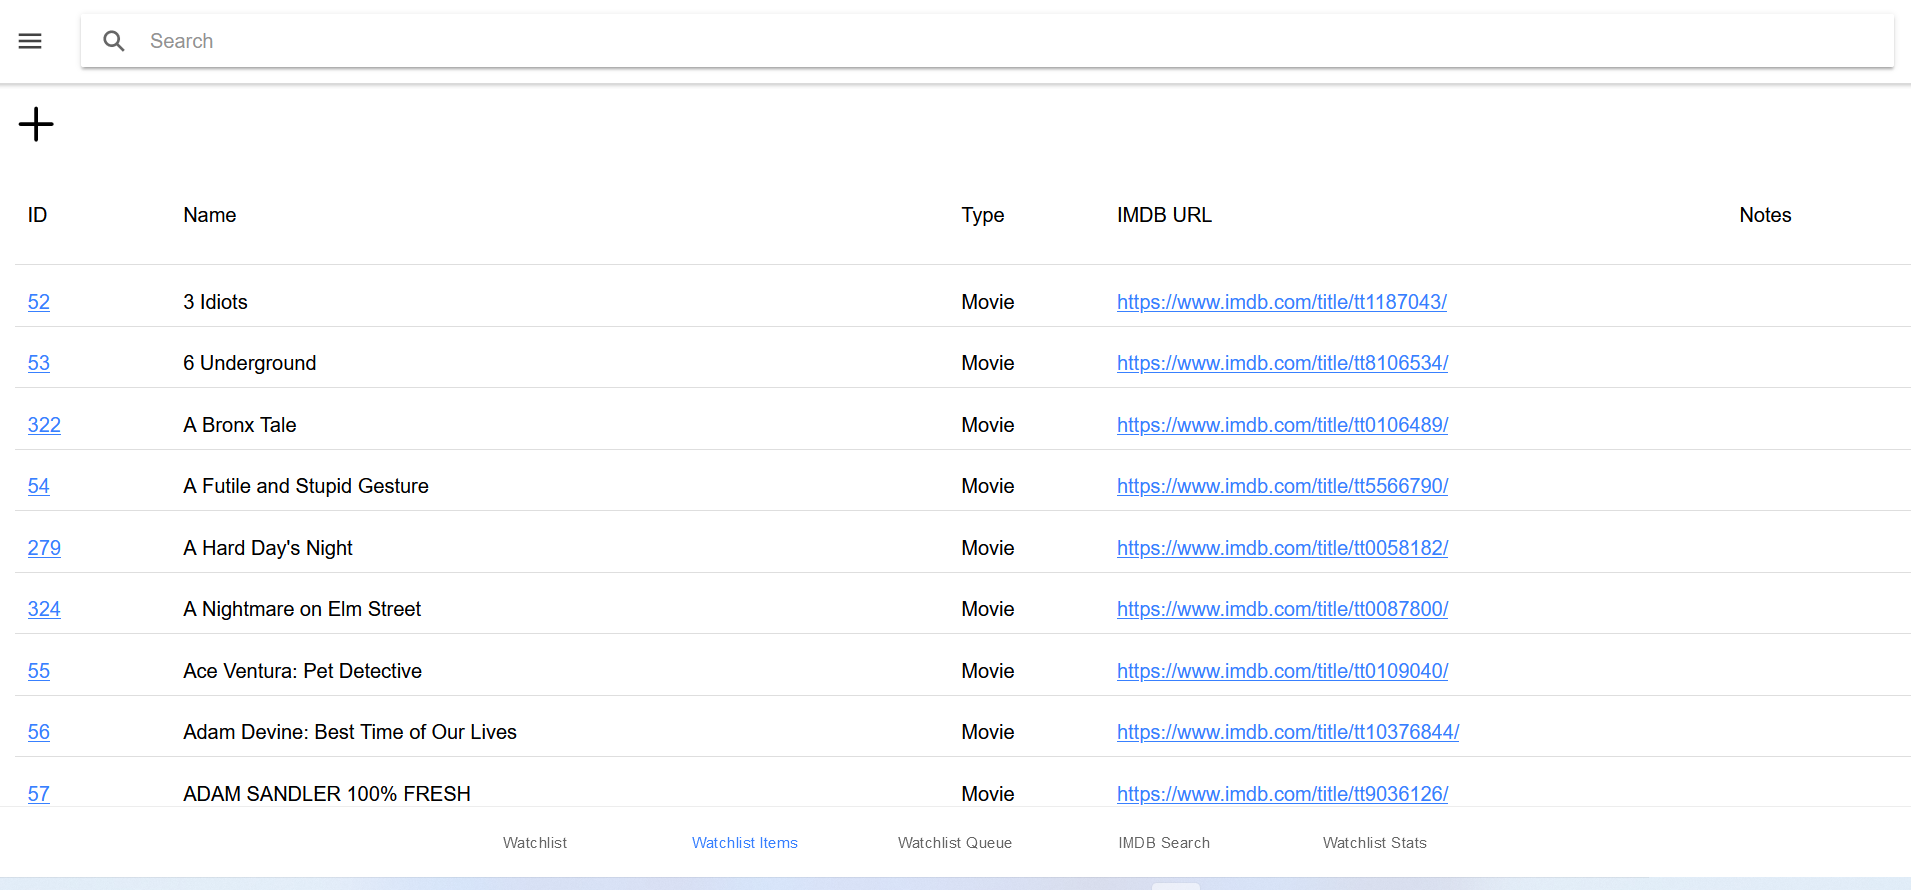
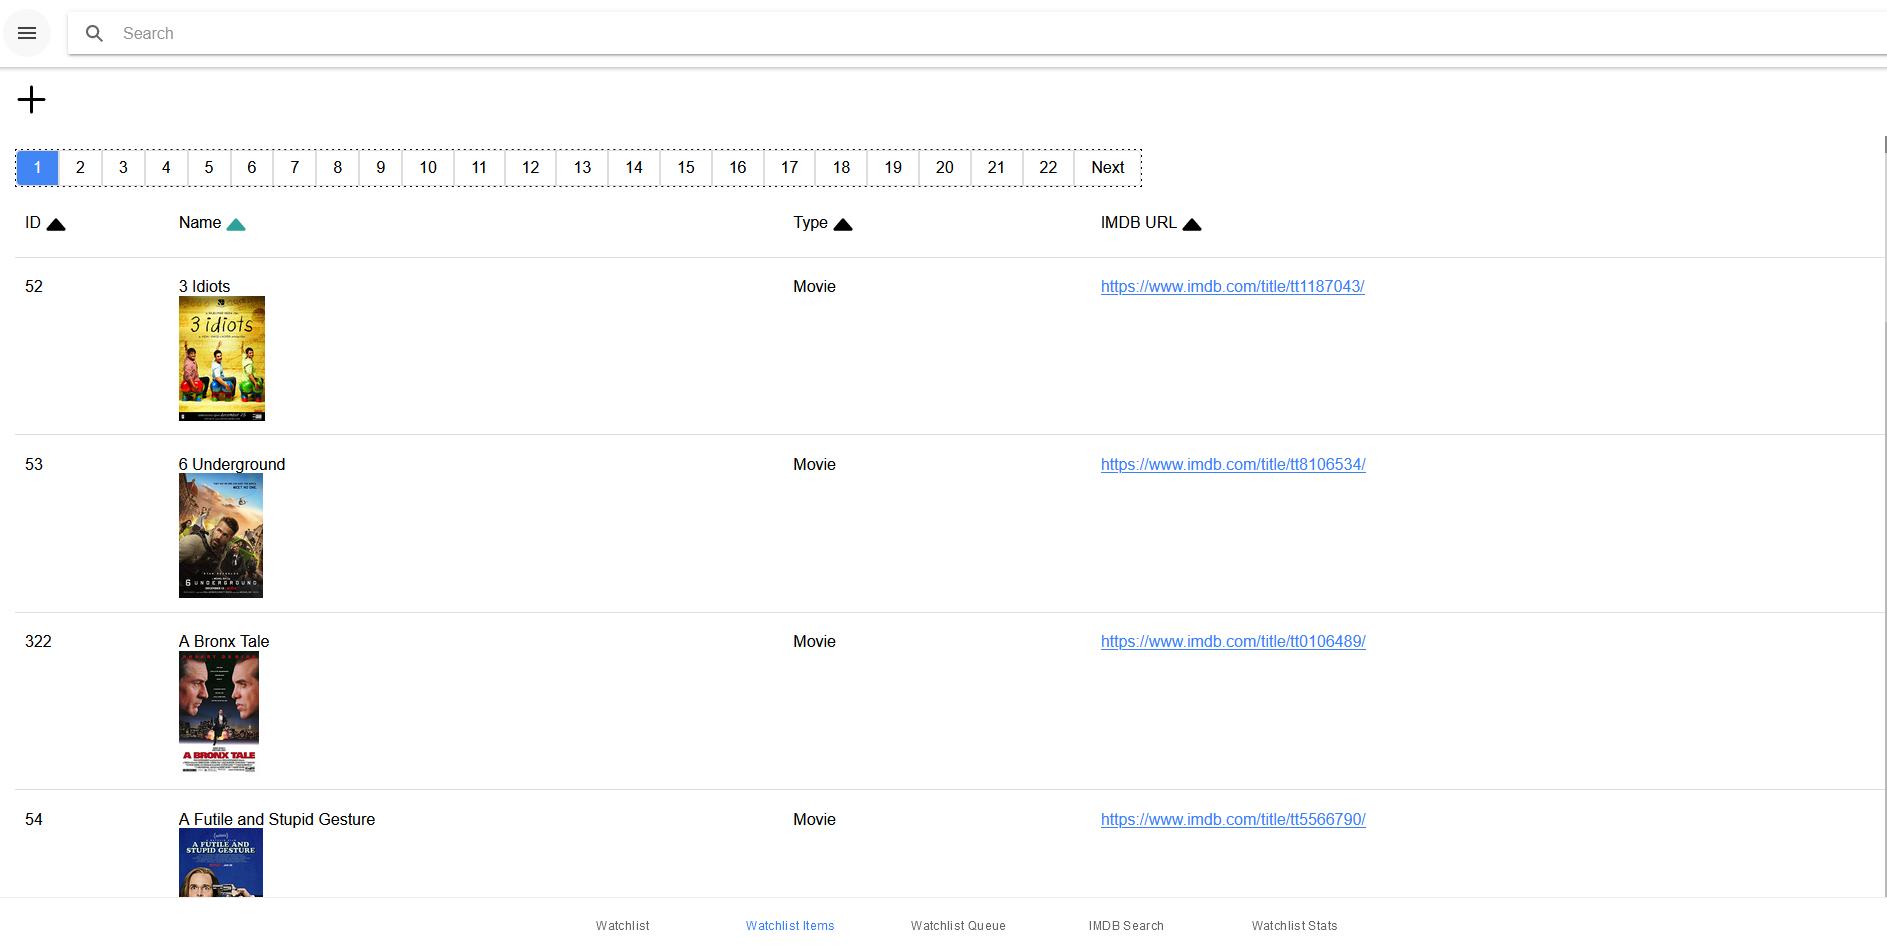
Updates Update readme to explain different sections Update screenshots Add WatchList Stats screenshot Save IMDB filter Add rows per page option Fix IMDB URL Missing filter not working

diff --git a/src/app/core/data.service.ts b/src/app/core/data.service.ts
@@ -90,11 +90,13 @@ export class DataService {
 
           this.getIncompleteFilter();
 
-          this.getRecordLimit();
+          this.getRecordLimitFilter();
 
           this.getSourceFilter();
 
           this.getTypeFilter();
+
+          this.getIMDBURLMissingFilter();
      }
 
      addWatchList(currWatchList: IWatchList) {
@@ -295,6 +297,10 @@ export class DataService {
           });
      }
 
+     async getIMDBURLMissingFilter() {
+          this.imdb_url_missing = await this.storage.get('IMDBURLMissingFilter');
+     }
+
      getIMDBURL(watchListItemID: number) {
           if (this.getWatchListItems.length === 0) {
                return;
@@ -313,7 +319,7 @@ export class DataService {
           return null;
      }
 
-     async getRecordLimit() {
+     async getRecordLimitFilter() {
           this.recordLimit = await this.storage.get('RecordLimitFilter');
      }
 
@@ -704,17 +710,15 @@ export class DataService {
 
           this.getIMDBSearchEnabledSubscription();
 
-          this.getWatchListItemsSubscription(true);
+          this.getWatchListSubscription(); // Load WatchList
+
+          this.getWatchListItemsSubscription(true); // Load WatchList
 
           this.getWatchListQueueSubscription();
 
           this.getWatchListTypesSubscription();
 
           this.getWatchListSourcesSubscription();
-
-          this.getWatchListSubscription();
-
-          this.getWatchListSubscription();
 
           this.router.navigateByUrl('/tabs/watchlist');
      }
@@ -844,12 +848,16 @@ export class DataService {
           }
      }
 
-     async saveItemsPerPageFilter() {
-          await this.storage.set('ItemsPerPage',this.itemsPerPage);
+     async saveIMDBURLMissingFilter() {
+          await this.storage.set('IMDBURLMissingFilter',this.imdb_url_missing);
      }
 
      async saveIncompleteFilter() {
           await this.storage.set('IncompleteFilter',this.incompleteFilter);
+     }
+
+     async saveItemsPerPageFilter() {
+          await this.storage.set('ItemsPerPage',this.itemsPerPage);
      }
 
      async saveRecordLimitFilter() {
@@ -923,7 +931,7 @@ export class DataService {
                     this.watchListSortDirection = 'ASC';
                }
 
-               this.getWatchListSubscription();
+               this.getWatchListSubscription(); // Reload WatchList after user clicks on sort icons
           } else if (component ==='WatchListItems') {
                this.watchListItemsSortColumn = name;
                this.watchListItemsSortActiveColumn = name;
@@ -934,7 +942,7 @@ export class DataService {
                     this.watchListItemsSortDirection = 'ASC';
                }
 
-               this.getWatchListItemsSubscription(false);
+               this.getWatchListItemsSubscription(false); // Reload WatchListItems after user clicks on sort icons
           }
      }
 

diff --git a/src/app/components/watchlist-detail/watchlist-detail-page.ts b/src/app/components/watchlist-detail/watchlist-detail-page.ts
@@ -82,7 +82,7 @@ export class WatchListDetailComponent implements DoCheck {
           this.dataService.addWatchListQueueItem(this.detailObject).subscribe((response) => {
                this.deleteWatchListCallback();
 
-               this.dataService.getWatchListSubscription();
+               this.dataService.getWatchListSubscription(); // Reload WatchList after moving item from WatchList to WatchListQueue
 
                this.dataService.getWatchListQueueSubscription();
 
@@ -119,7 +119,7 @@ export class WatchListDetailComponent implements DoCheck {
 
      closeClickHandler() {
           if (this.wasModified)
-               this.dataService.getWatchListSubscription();
+               this.dataService.getWatchListSubscription(); // TODO: Verify if this is needed
 
           this.dataService.closeOverlay();
      }
@@ -132,7 +132,7 @@ export class WatchListDetailComponent implements DoCheck {
           this.dataService.deleteWatchList(this.detailObject['WatchListID']).subscribe((response) => {
                this.dataService.closeOverlay();
                
-               this.dataService.getWatchListSubscription();
+               this.dataService.getWatchListSubscription(); // Reload WatchList after deleting a WatchList record
           },
           error => {
                console.log(`An error occurred deleting WatchList Item with ID ${this.detailObject['WatchListID']}`);
@@ -236,7 +236,7 @@ export class WatchListDetailComponent implements DoCheck {
 
                this.wasModified = true;
 
-               this.dataService.getWatchListSubscription();
+               this.dataService.getWatchListSubscription(); // Reload WatchList after adding a WatchList record
 
                this.dataService.closeOverlay();
           },
@@ -281,7 +281,7 @@ export class WatchListDetailComponent implements DoCheck {
                
                this.wasModified = true;
 
-               this.dataService.getWatchListSubscription();
+               this.dataService.getWatchListSubscription(); // Reload WatchList after updating a WatchList record
           },
           error => {
                this.dataService.handleError(error);

diff --git a/src/app/components/watchlist-items/watchlist-items.page.ts b/src/app/components/watchlist-items/watchlist-items.page.ts
@@ -10,7 +10,6 @@ import { DataService } from '../../core/data.service';
 export class WatchListItemsComponent implements DoCheck {
      currentPage = 1;
      filteredWatchListItems: IWatchListItem[]
-     //readonly itemsPerPage = 20;
      readonly math = Math;
 
      constructor(public dataService: DataService) { }
@@ -22,11 +21,15 @@ export class WatchListItemsComponent implements DoCheck {
                          (this.dataService.searchTerm === ""
                          || (this.dataService.searchTerm !== ""
                             && (
-                               this.dataService.getWatchListItemName(wli.WatchListItemID).toLowerCase().includes(this.dataService.searchTerm.toLowerCase())
-                               || (wli.WatchListTypeID !== null && this.dataService.getWatchListTypeName(wli.WatchListTypeID).toLowerCase().includes(this.dataService.searchTerm.toLowerCase())
-                            )
+                                    this.dataService.getWatchListItemName(wli.WatchListItemID).toLowerCase().includes(this.dataService.searchTerm.toLowerCase())
+                                    || (wli.WatchListTypeID !== null && this.dataService.getWatchListTypeName(wli.WatchListTypeID).toLowerCase().includes(this.dataService.searchTerm.toLowerCase())
+                               )
                          || (wli.ItemNotes  !== null && wli.ItemNotes.toLowerCase().includes(this.dataService.searchTerm.toLowerCase())))
                          ))
+                         && (
+                              this.dataService.imdb_url_missing === true && wli.IMDB_URL === null
+                              || this.dataService.imdb_url_missing === false
+                         )
                     )
                });
           }

diff --git a/src/app/components/watchlist-items-detail/watchlist-items-detail-page.ts b/src/app/components/watchlist-items-detail/watchlist-items-detail-page.ts
@@ -54,7 +54,7 @@ export class WatchListItemsDetailComponent implements DoCheck {
 
      deleteWatchListItemCallback(currWatchListItem) {
           this.dataService.deleteWatchListItem(currWatchListItem.WatchListItemID).subscribe((response) => {
-               this.dataService.getWatchListItemsSubscription(true);
+               this.dataService.getWatchListItemsSubscription(true); // Reload WatchListItems after deleting a WatchList record
           },
           error => {
                console.log(`An error occurred deleting WatchList Item with ID ${currWatchListItem.WatchListID}`);
@@ -98,7 +98,7 @@ export class WatchListItemsDetailComponent implements DoCheck {
           currWatchList.ItemNotes=this.addItemNotes;
 
           this.dataService.addWatchListItem(currWatchList).subscribe((response) => {
-               this.dataService.getWatchListItemsSubscription(true);
+               this.dataService.getWatchListItemsSubscription(true); // Reload WatchListItems after adding a WatchList record
 
                this.isAdding=false;
 
@@ -131,7 +131,7 @@ export class WatchListItemsDetailComponent implements DoCheck {
           this.dataService.updateWatchListItem(this.detailObject).subscribe((response) => {
                this.isEditing = false;
 
-               this.dataService.getWatchListItemsSubscription(true);
+               this.dataService.getWatchListItemsSubscription(true); // Reload WatchListItems after updating a WatchList record
           },
           error => {
                this.dataService.handleError(error);

diff --git a/src/app/app.component.ts b/src/app/app.component.ts
@@ -56,38 +56,7 @@ export class AppComponent {
           this.dataService.saveSourceFilter();
           this.dataService.saveTypeFilter();
           this.dataService.saveItemsPerPageFilter();
-
-          // Continue here. Comment this out and apply filters locally
-          if (event != null && event.target.id === 'IMDBURLMissing') {
-               this.dataService.getWatchListItemsSubscription(true);
-          } else {
-               this.dataService.getWatchListSubscription();
-
-               this.dataService.getWatchListItemsSubscription(true);
-          }
-     }
-
-     saveOptions() {
-          if (this.dataService.userData.BackendURL === null || this.dataService.userData.BackendURL === '') {
-               this.dataService.alert('Please set the Backend URL');
-               return;
-          }
-
-          this.dataService.getIMDBSearchEnabledSubscription();
-
-          this.dataService.getWatchListItemsSubscription(false);
-
-          this.dataService.getWatchListSubscription();
-
-          this.dataService.getWatchListQueueSubscription();
-
-          this.dataService.getWatchListTypesSubscription();
-
-          this.dataService.getWatchListSourcesSubscription();
-
-          this.isEditingOptions=false;
-
-          this.optionChangeHandler(null);
+          this.dataService.saveIMDBURLMissingFilter();
      }
 
      signOut() {

diff --git a/src/app/components/imdb-search/imdb-search.page.ts b/src/app/components/imdb-search/imdb-search.page.ts
@@ -40,7 +40,7 @@ export class IMDBSearchComponent {
                if (response == null) { // No response on success
                     this.searchResults.splice(index,1); // Remove it from the the search results since its been added
 
-                    this.dataService.getWatchListItemsSubscription(true);
+                    this.dataService.getWatchListItemsSubscription(true); // Reload WatchListItems after adding a WatchList record
 
                     // When adding item through IMDB search, it may exist already. In this case, it won't have a new ID
                     this.dataService.autoAddWatchListRecord(currWatchListItem.IMDB_URL);

diff --git a/src/app/components/watchlist-queue-detail/watchlist-queue-detail-page.ts b/src/app/components/watchlist-queue-detail/watchlist-queue-detail-page.ts
@@ -72,7 +72,7 @@ export class WatchListQueueDetailComponent implements DoCheck {
           this.dataService.addWatchList(newWatchList).subscribe((response) => {
                this.deleteWatchListQueueItemCallback();
 
-               this.dataService.getWatchListSubscription();
+               this.dataService.getWatchListSubscription(); // Reload WatchList after moving a WatchList record from the queue to WatchList
           },
           error => {
                this.dataService.handleError(error);

diff --git a/README.md b/README.md
@@ -7,6 +7,15 @@ This app has the ability to search IMDB for a movie or TV show within the API if
 
 This app can be built as a web app, an Android app or an iOS app.
 
+# Sections
+The application has 5 different sections:
+
+WatchList: These are the records where you track each time you watch a movie, tv show or special
+WatchListItems: These are the records that contain the movie, TV show or special which you only add once and then add a record that references the WatchListItem
+WatchListQueue: These are records of a movie, tv show or special that you want to watch
+IMDB Search: If enabled, (see below) the IMDB search tab
+WatchList Stats: Stats of the movies and shows that you have watched over time
+
 ## Build web application
 Run these commands to build the web application
 
@@ -40,3 +49,6 @@ Watchlist Queue (Movies or TV shows that you want to watch later)
 
 IMDB Search
 ![Watchlist Items](https://github.com/SegiH/WatchList/blob/main/screenshots/imdb-search.png?raw=true)
+
+WatchList Stats
+![Watchlist Stats](https://github.com/SegiH/WatchList/blob/main/screenshots/watchliststats.png?raw=true)
